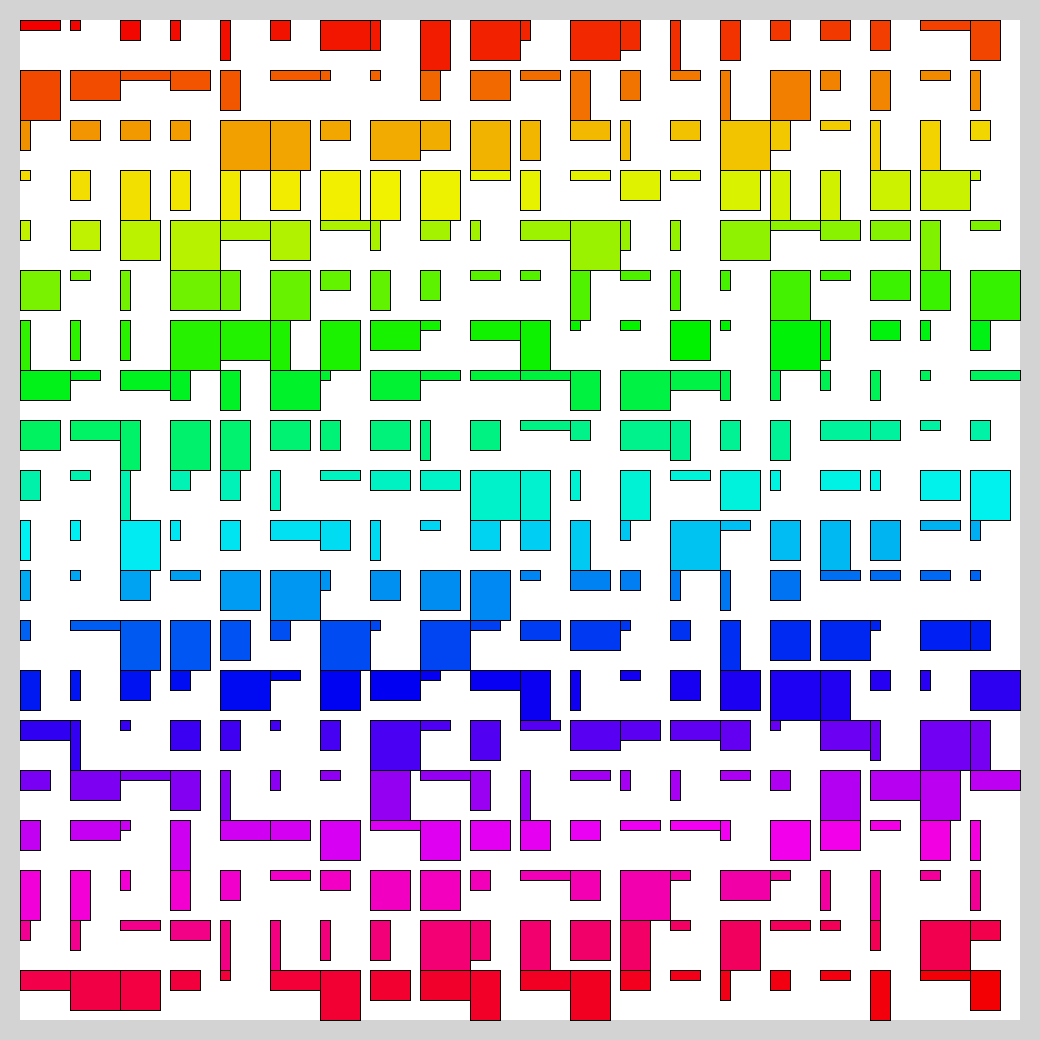
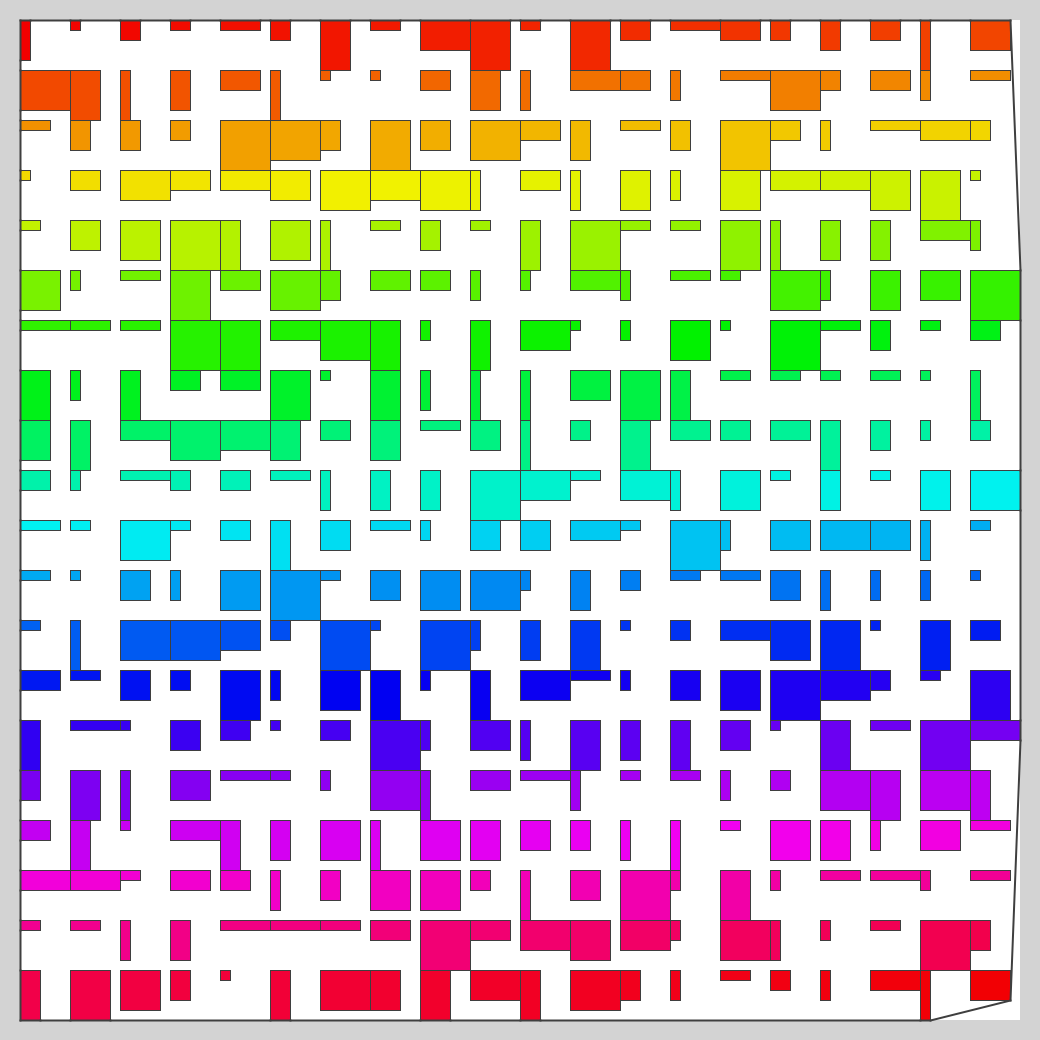
ConvexHullクラスを実装した．

Changed region(s): [[0.0, 0.0, 0.9846, 0.9846], [0.1231, 0.2462, 0.1538, 0.2769], [0.0615, 0.2462, 0.0923, 0.2769]]

diff --git a/RPP/tester/Tester.java b/RPP/tester/Tester.java
@@ -28,8 +28,18 @@ public class Tester {
                     Color c = Color.getHSBColor((1.0f / (float)N) * (float)i, 1.0f, 0.95f);
                     g2.setColor(c);
                     g2.fillRect(posX[i] * 10 + 20, posY[i] * 10 + 20, w[i] * 10, h[i] * 10);
-                    g2.setColor(new Color(0x000000));
+                    g2.setColor(new Color(0x3F3F3F));
                     g2.drawRect(posX[i] * 10 + 20, posY[i] * 10 + 20, w[i] * 10, h[i] * 10);
+                }
+
+                BasicStroke wideStroke = new BasicStroke(2.0f);
+                g2.setStroke(wideStroke);
+                for (int i = 0; i < ch.size(); i++) {
+                    int x1 = ch.getX(i) * 10 + 20;
+                    int y1 = ch.getY(i) * 10 + 20;
+                    int x2 = ch.getX((i + 1) % ch.size()) * 10 + 20;
+                    int y2 = ch.getY((i + 1) % ch.size()) * 10 + 20;
+                    g2.drawLine(x1, y1, x2, y2);
                 }
 
                 g.drawImage(bi, 0, 0, WIDTH, HEIGHT, null);
@@ -84,6 +94,7 @@ public class Tester {
     int [] h, w;
     int [] dir;
     int [] posX, posY;
+    ConvexHull ch;
 
     /********************************************************************/
 
@@ -94,11 +105,11 @@ public class Tester {
             long seed = Long.parseLong(seedStr);
             rnd.setSeed(seed);
 
-            h = new int[N];
             w = new int[N];
+            h = new int[N];
             for (int i = 0; i < N; i++) {
-                h[i] = rnd.nextInt(RECT_MAX - RECT_MIN + 1) + RECT_MIN;
                 w[i] = rnd.nextInt(RECT_MAX - RECT_MIN + 1) + RECT_MIN;
+                h[i] = rnd.nextInt(RECT_MAX - RECT_MIN + 1) + RECT_MIN;
             }
         } catch (Exception e) {
             System.err.println("An exception occurred while generating test case.");
@@ -115,8 +126,8 @@ public class Tester {
                 getPermutation();
                 boolean [][] used = new boolean[BOX_SIZE][BOX_SIZE];
                 for (int i = 0; i < N; i++) {
-                    int a = (dir[i] == 1 ? w[i] : h[i]);
-                    int b = (dir[i] == 1 ? h[i] : w[i]);
+                    int a = (dir[i] == 0 ? w[i] : h[i]);
+                    int b = (dir[i] == 0 ? h[i] : w[i]);
                     for (int x = posX[i]; x < posX[i] + a; x++) {
                         for (int y = posY[i]; y < posY[i] + b; y++) {
                             if (used[x][y]) {
@@ -140,16 +151,31 @@ public class Tester {
             return -1;
         }
 
+        ch = new ConvexHull();
+        boolean [][] usedPos = new boolean[BOX_SIZE + 1][BOX_SIZE + 1];
+        for (int i = 0; i < N; i++) {
+            int wt = (dir[i] == 0 ? w[i] : h[i]);
+            int ht = (dir[i] == 0 ? h[i] : w[i]);
+            int [] ax = {0, 0, wt, wt};
+            int [] ay = {0, ht, 0, ht};
+            for (int j = 0; j < 4; j++) {
+                int xt = posX[i] + ax[j];
+                int yt = posY[i] + ay[j];
+                if (!usedPos[xt][yt]) {
+                    ch.add_point(xt, yt);
+                    usedPos[xt][yt] = true;
+                }
+            }
+        }
+
+        ch.build();
+        
         if (vis) {
             jf.setSize((BOX_SIZE + 4) * 10, (BOX_SIZE + 4) * 10);
             jf.setVisible(true);
         }
         
-        double score = -1.0;
-        //boolean [][] usedPos = new boolean[BOX_SIZE + 1][BOX_SIZE + 1];
-
-
-        return score;
+        return ch.getArea();
     }
 
     private void getPermutation () throws IOException {

diff --git a/RPP/tester/ConvexHull.java b/RPP/tester/ConvexHull.java
@@ -1,0 +1,68 @@
+import java.util.*;
+
+public class ConvexHull {
+
+    public class Point {
+        int x,y;
+        public Point (int _x, int _y) {
+            x = _x;
+            y = _y;
+        }
+    }
+
+    public int dot(Point a, Point b) { return a.x * b.x + a.y * b.y; }
+    public int cross(Point a, Point b) { return a.x * b.y - a.y * b.x; }
+    public double norm(Point a) { return Math.sqrt((double) dot(a, a) * (double) dot(a, a)); }
+    public Point sub(Point a, Point b) { return new Point(a.x - b.x, a.y - b.y); }
+
+    public int counter_clockwise(Point p0, Point p1, Point p2) {
+        Point a = sub(p1, p0);
+        Point b = sub(p2, p0);
+        if (cross(a,b) > 1.0e-8) return 1;
+        if (cross(a,b) < -1.0e-8) return -1;
+        if (dot(a,b) < -1.0e-8) return 2;
+        if (norm(a) < norm(b)) return 2;
+        return 0;
+    }
+
+    /******************************/
+
+    List < Point > Pos = new ArrayList < Point > ();
+    List < Point > CHPos = new ArrayList < Point > ();
+
+    public int size () { return CHPos.size(); }
+    public int getX (int i) { return CHPos.get(i).x; }
+    public int getY (int i) { return CHPos.get(i).y; }
+
+    public void add_point(int x, int y) {
+        Pos.add(new Point(x, y));
+    }
+
+    public void build() {
+        int n = (int) Pos.size(), k = 0;
+        Collections.sort(Pos, new Comparator < Point > () {
+            @Override
+            public int compare(Point p1, Point p2) {
+                int ret = p1.x - p2.x;
+                if (ret == 0) ret = p1.y - p2.y;
+                return ret;
+            }       
+        });
+        Point [] ch = new Point[2 * n];
+        for (int i = 0; i < n; ch[k++] = Pos.get(i++)) {
+            while (k >= 2 && counter_clockwise(ch[k - 2], ch[k - 1], Pos.get(i)) <= 0) --k;
+        }
+        for (int i = n - 2, t = k + 1; i >= 0; ch[k++] = Pos.get(i--)) {
+            while (k >= t && counter_clockwise(ch[k - 2], ch[k - 1], Pos.get(i)) <= 0) --k;
+        }
+        for (int i = 0; i < k - 1; i++) {
+            CHPos.add(ch[i]);
+        }
+    }
+
+    public double getArea () {
+        return 0.0;
+    }
+
+}
+
